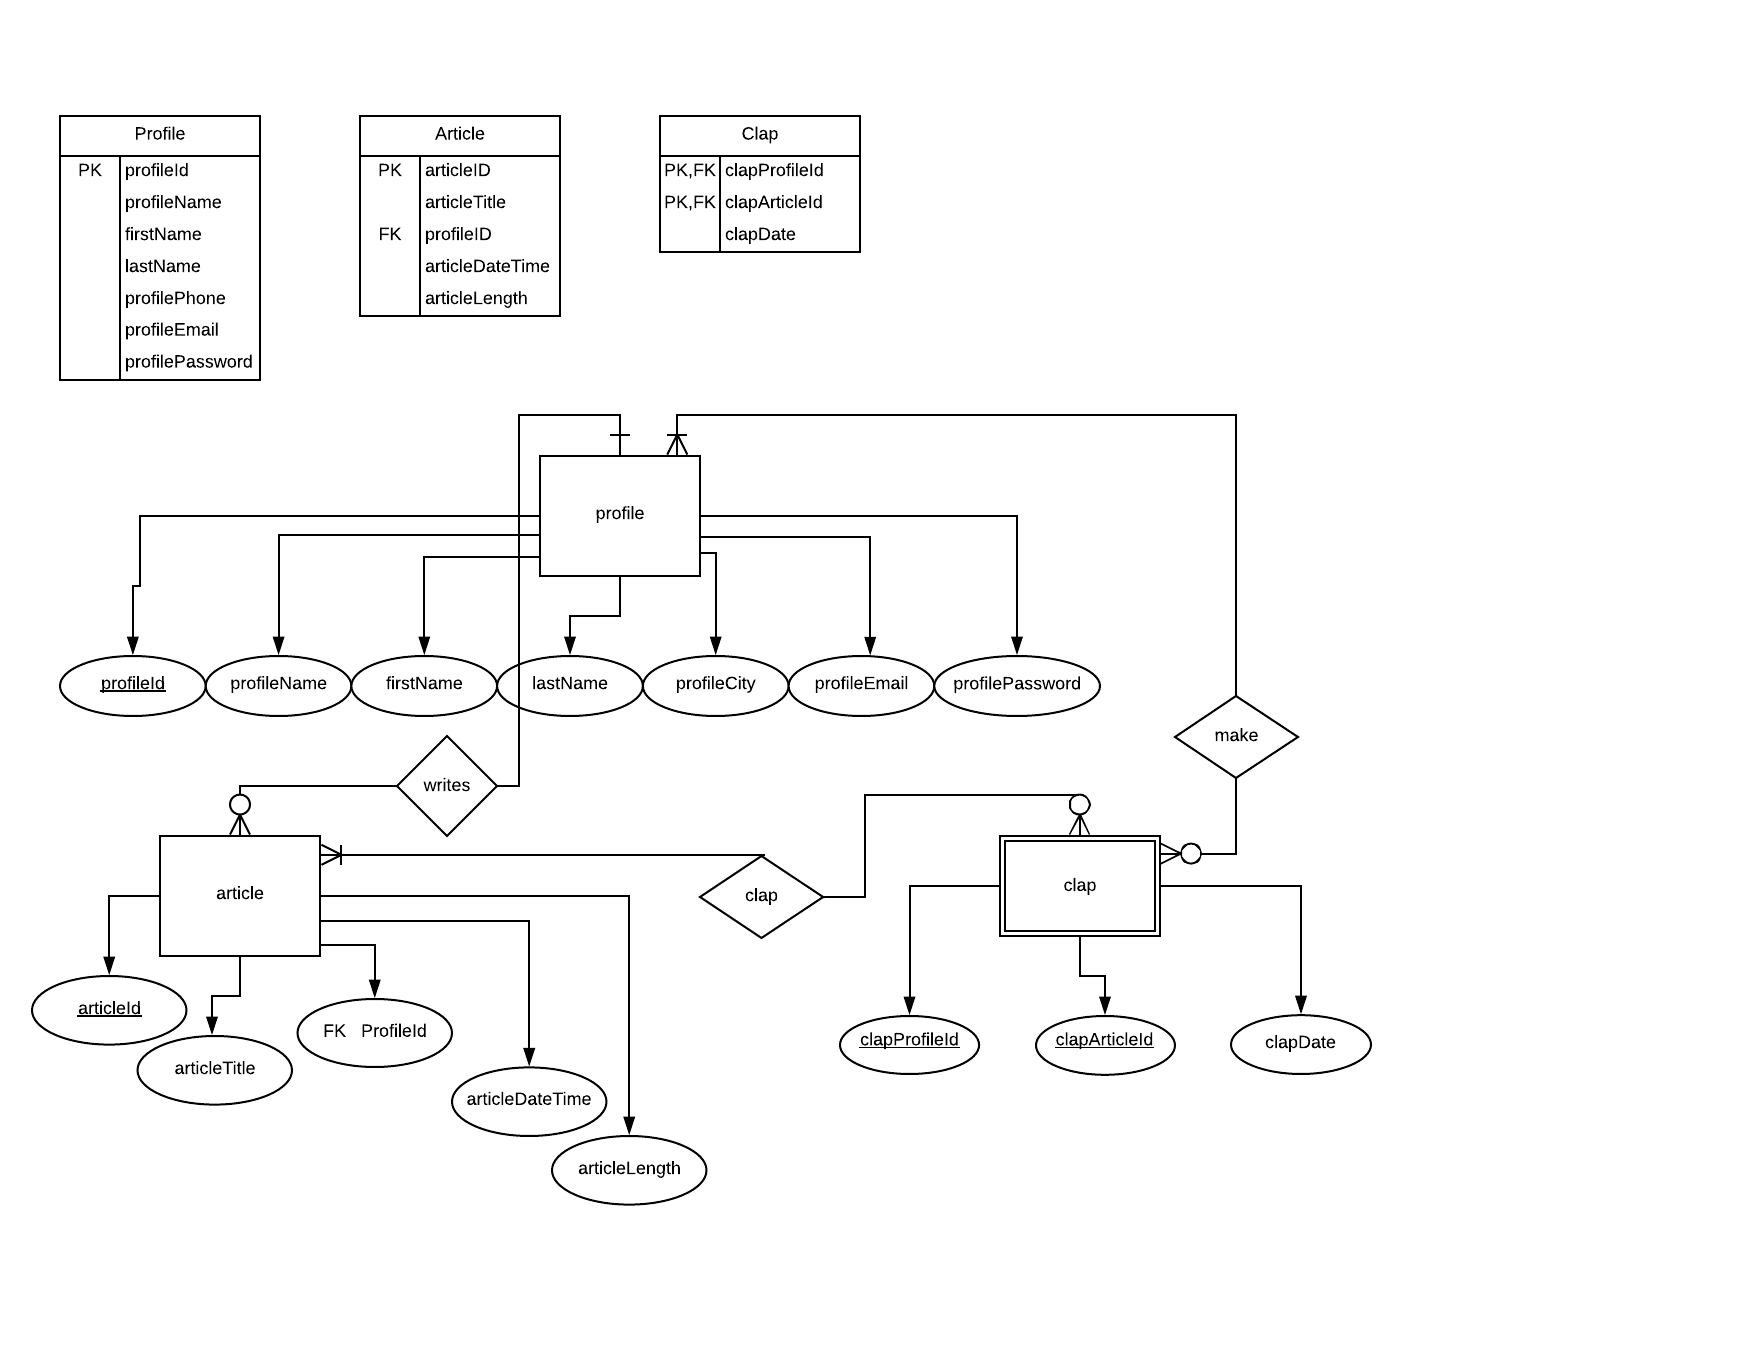
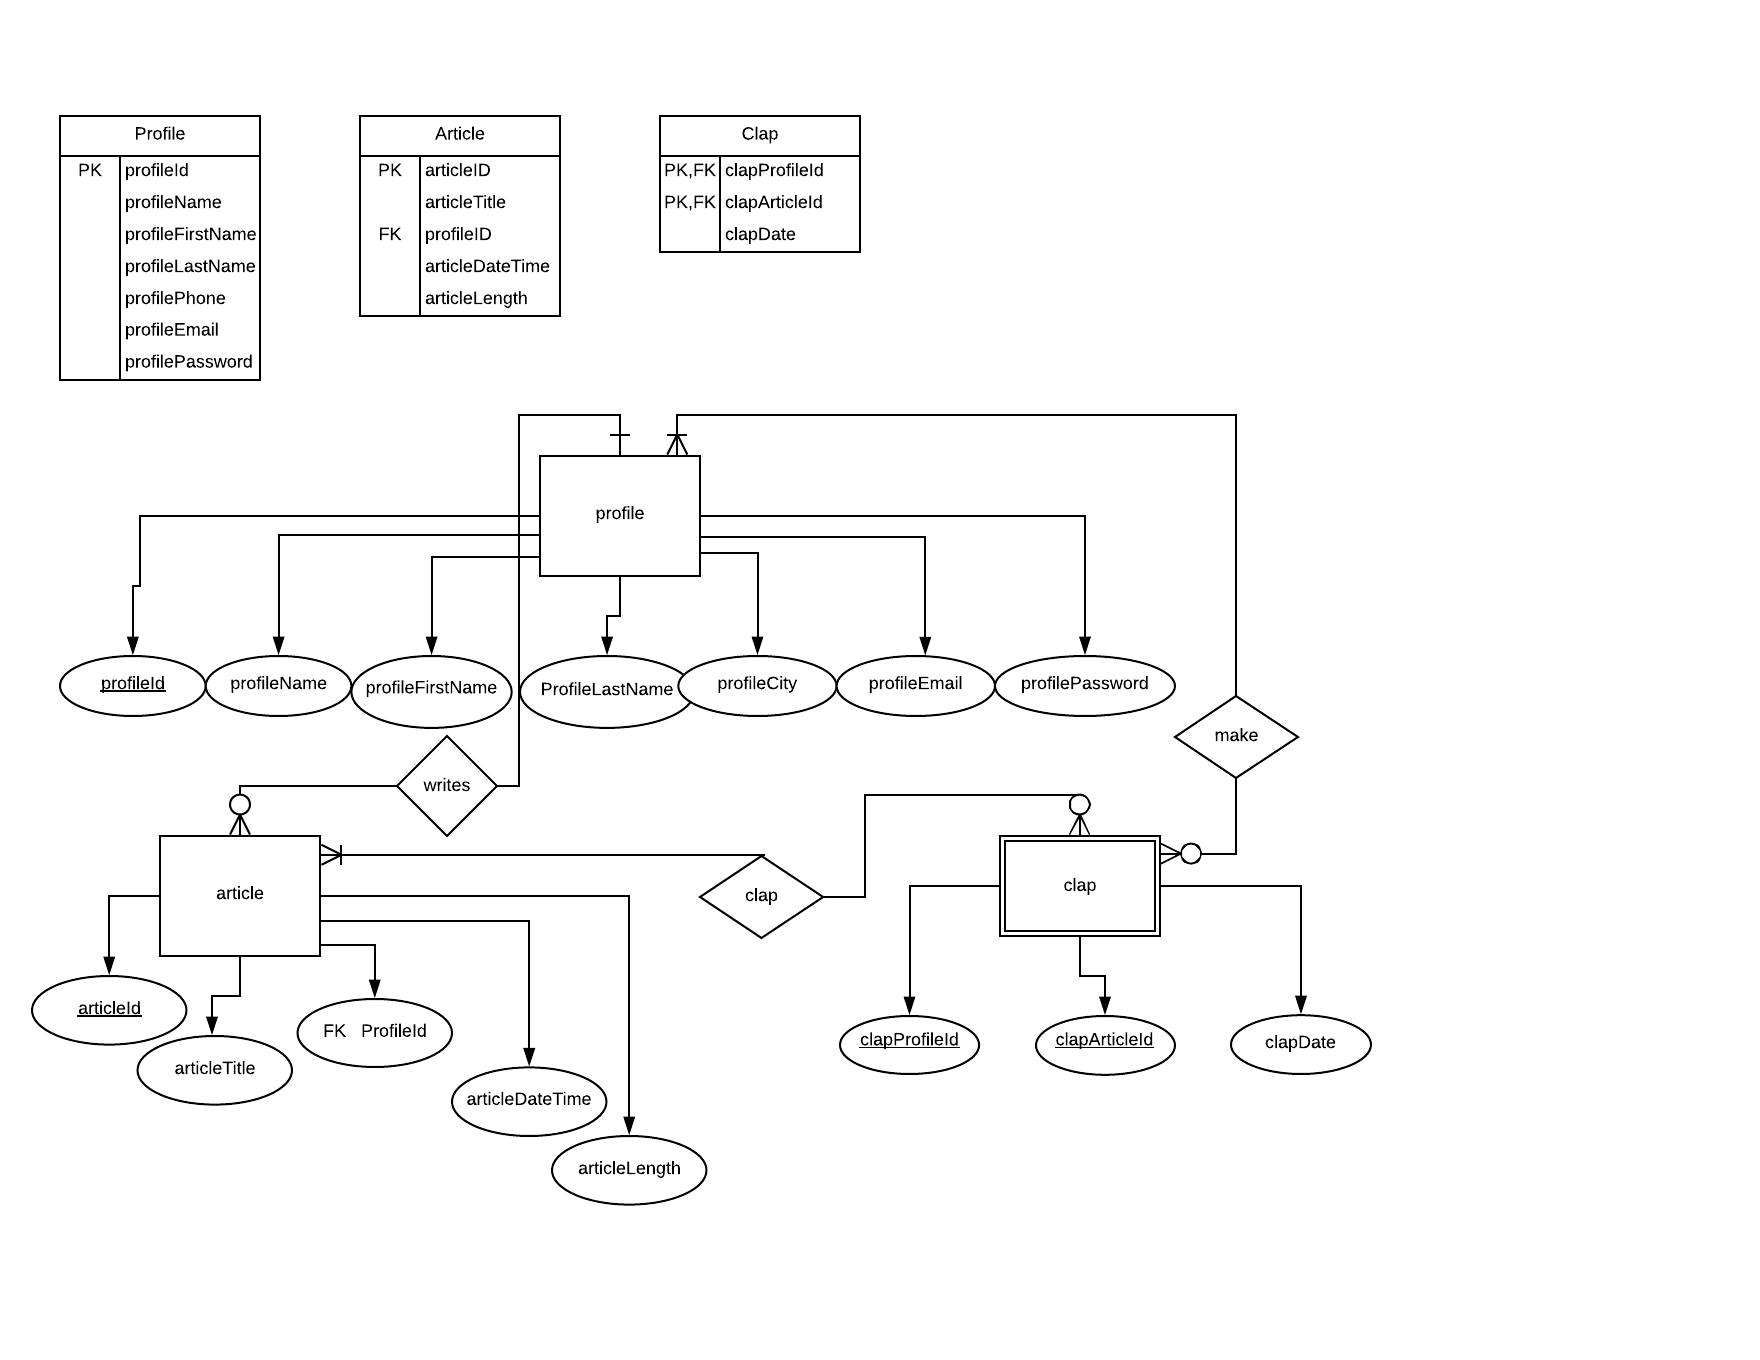
Fixed profileFirstName and profileLastName to abide by coding standard

Changed region(s): [[0.1875, 0.4632, 0.6562, 0.5559], [0.0625, 0.1544, 0.125, 0.2162]]

diff --git a/index.php b/index.php
@@ -71,8 +71,8 @@
 				<dt>Profile</dt>
 				<dd>profileId</dd>
 				<dd>profileName</dd>
-				<dd>firstName</dd>
-				<dd>lastName</dd>
+				<dd>profileFirstName</dd>
+				<dd>profileLastName</dd>
 				<dd>profileCity</dd>
 				<dd>profilePhone</dd>
 				<dd>profileEmail</dd>
